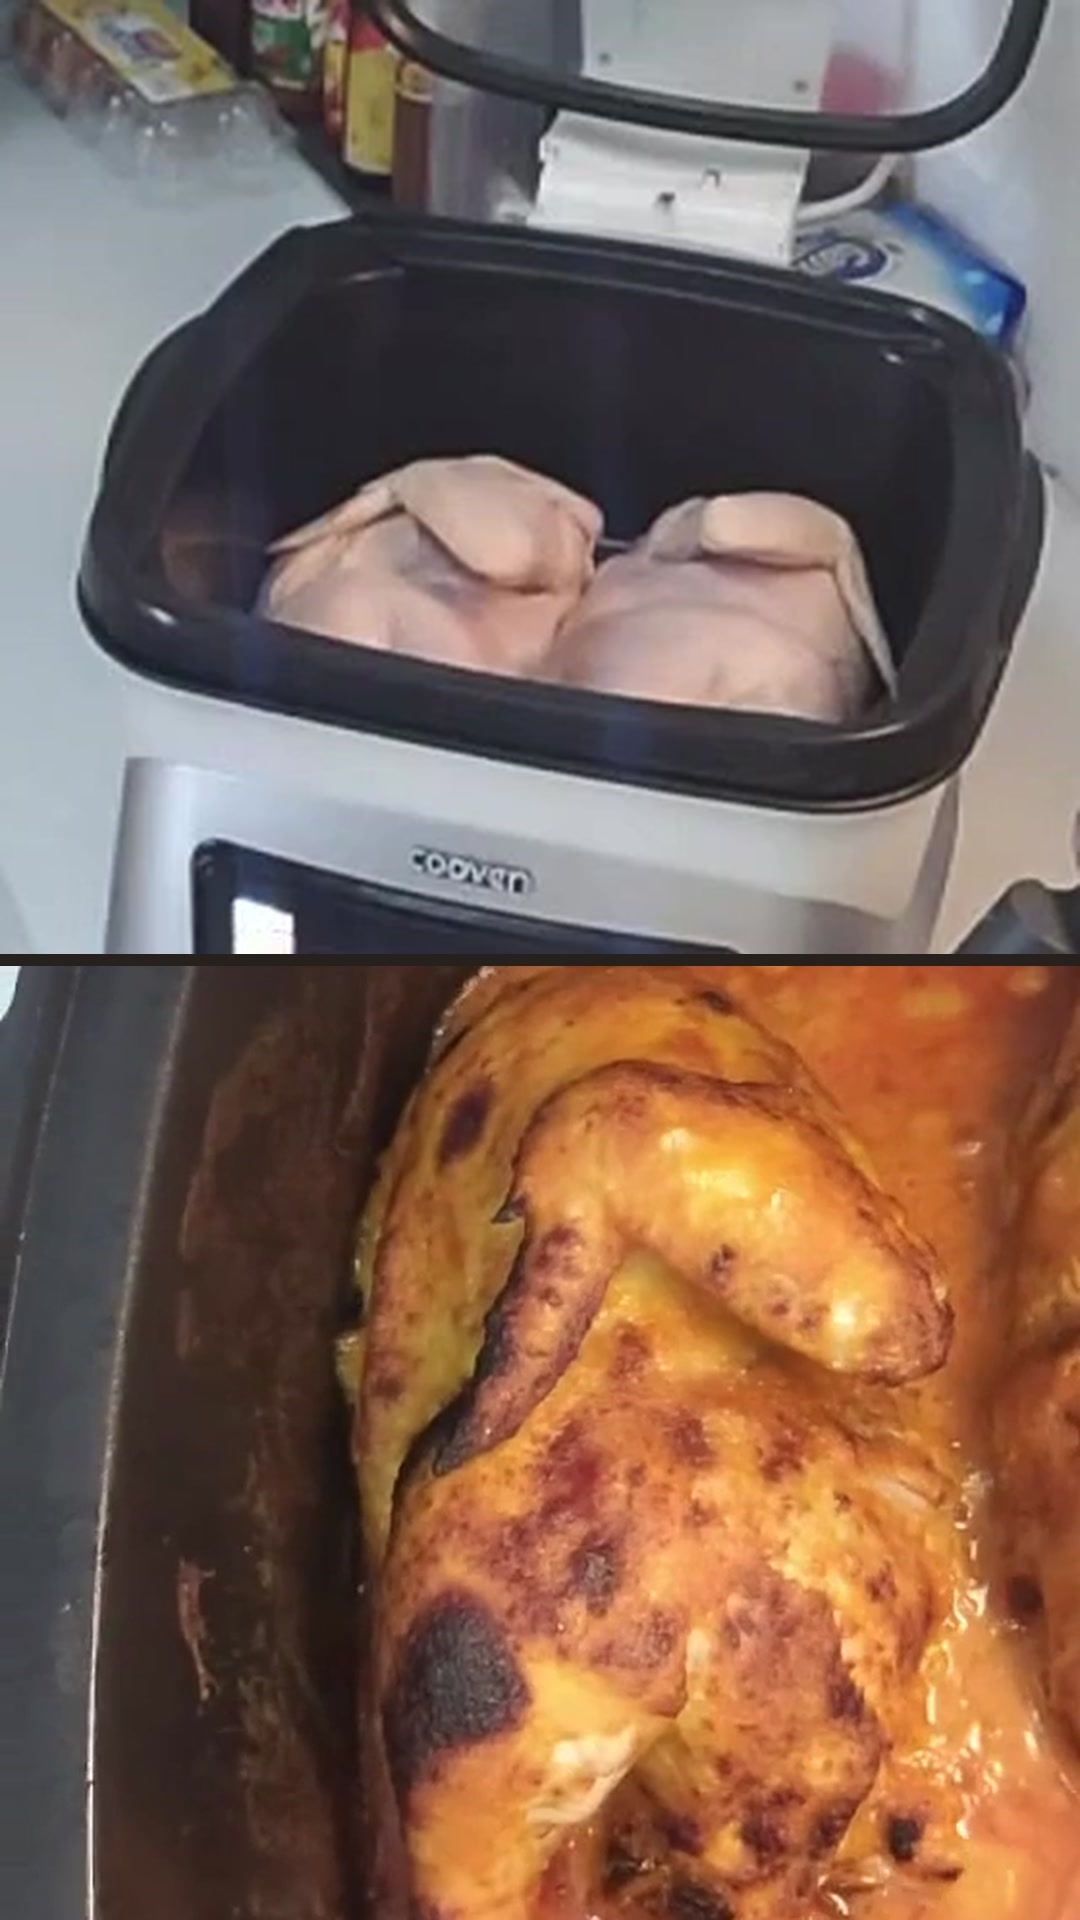
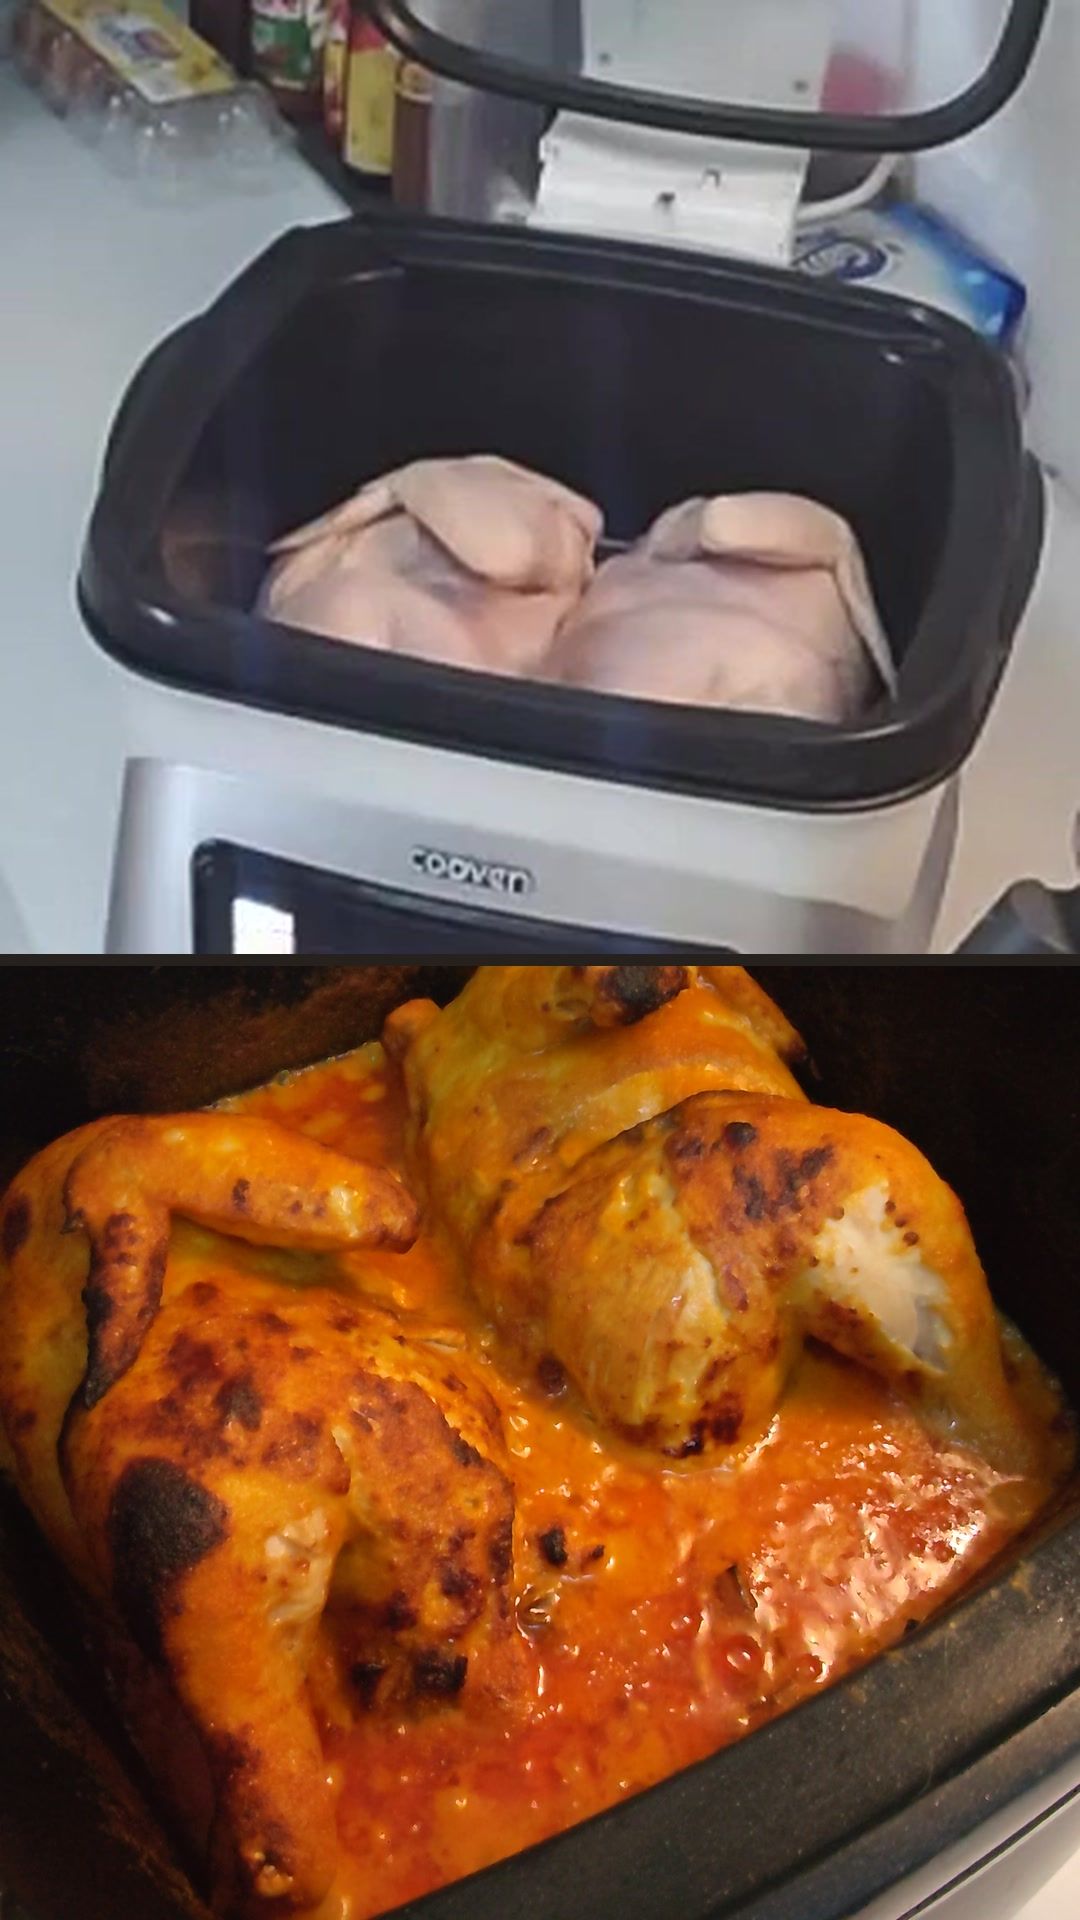
Ayam percik: use the new 4K clips (reveal hook, Smart Cook menu, braise, broil, smooth payoff tour, end card)
Claude-Session: https://claude.ai/code/session_01PJCRELPXxSytfk5cYA1xdA

diff --git a/video/src/episodes/ayam-percik.ts b/video/src/episodes/ayam-percik.ts
@@ -69,6 +69,44 @@ const tour = (extra: Partial<Shot> = {}): Shot => ({
   ...extra,
 });
 
+/**
+ * Extra 4K phone clips (cook's upload, 2160x3840, no live PiP, no sound used):
+ *   b171139: lid lifts 0-1 s, camera moves in 1-3.6 s, steady top-down of the finished, charred chicken 3.6-7.7 s
+ *            (b171139slow = 3.6-7.7 s frame-interpolated to half speed, 8.2 s long, for the smooth payoff tour)
+ *   b170347: Cooven panel, SMART COOK selected 0.25-1.75 s (digits on the right are zoomed out)
+ *   b170842: through the lid, chicken simmering in bubbling kuah (braise)
+ *   b173145: 0-2.1 s chicken covered in kuah; 2.2-4.5 s the screen shows temp/time (never used); 4.5 s+ broil glow
+ */
+const B_DONE = 'b171139.mp4';
+const B_SLOW = 'b171139slow.mp4';
+const REVEAL = {from: {s: 1.04, x: 0.5, y: 0.5}, to: {s: 1.12, x: 0.5, y: 0.55}};
+const MENU = {from: {s: 1.8, x: 0.35, y: 0.6}, to: {s: 1.9, x: 0.35, y: 0.6}}; // menu list only, digits (x > 0.8) out
+const GLASS = {from: {s: 1.12, x: 0.3, y: 0.2}, to: {s: 1.2, x: 0.3, y: 0.2}};
+const SAUCED = {from: {s: 1.35, x: 0.5, y: 0.25}, to: {s: 1.42, x: 0.5, y: 0.25}}; // screen (y > 0.82) out
+const BROIL_GLOW = {from: {s: 1.2, x: 0.3, y: 0}, to: {s: 1.28, x: 0.3, y: 0}}; // screen (y > 0.86) out
+const STEADY = {from: {s: 1.06, x: 0.5, y: 0.55}, to: {s: 1.1, x: 0.5, y: 0.55}};
+
+/** smooth close tour over the finished 4K chicken: left skin -> charred leg -> bubbling kuah -> right half -> back out */
+const TOUR4K = [
+  {s: 1.08, x: 0.5, y: 0.55},
+  {s: 1.9, x: 0.2, y: 0.45},
+  {s: 1.9, x: 0.1, y: 0.78},
+  {s: 2.1, x: 0.75, y: 0.85},
+  {s: 1.9, x: 0.9, y: 0.35},
+  {s: 1.08, x: 0.5, y: 0.55},
+];
+const tour4k = (extra: Partial<Shot> = {}): Shot => ({
+  src: B_SLOW,
+  from: 0.4,
+  to: 8.15,
+  rate: 0.8,
+  enter: 'zoom',
+  zoom: {from: TOUR4K[0], to: TOUR4K[TOUR4K.length - 1], path: TOUR4K},
+  sfx: [{src: 'riser-1s', at: 0.3, vol: 0.25}],
+  ...extra,
+});
+const END_4K = {src: B_SLOW, from: 3.0, to: 8.1, rate: 1.2, enter: 'cut' as const, zoom: STEADY};
+
 export const ayamPercik: Episode = {
   id: 'AyamPercik',
   series: BRAND,
@@ -80,27 +118,26 @@ export const ayamPercik: Episode = {
   asmrDuck: 1,
   look: 'cinematic',
   shots: [
-    // HOOK: finished, charred ayam percik
+    // HOOK: lid lifts on the finished, charred ayam percik (4K)
     {
-      src: L,
-      from: 3608,
-      to: 3613,
+      src: B_DONE,
+      from: 0.3,
+      to: 4.3,
       enter: 'cut',
-      audio: 0.3,
-      zoom: POT_DONE,
+      zoom: REVEAL,
       overlays: [
         {
           type: 'title',
           pos: 'bottom',
-          at: 0.1,
+          at: 0.6,
           lines: [{t: 'AYAM PERCIK'}, {t: 'TAK PAYAH ARANG!', hl: true, size: 74}, {t: 'Food Engine Cooven', marker: true, size: 60}],
         },
-        {type: 'sparkles', x: 520, y: 700, at: 1.0, count: 10, spread: 300},
+        {type: 'sparkles', x: 520, y: 700, at: 1.2, count: 10, spread: 300},
       ],
       sfx: [
         {src: 'sting', at: 0, vol: 0.5},
-        {src: 'impact', at: 0, vol: 0.45},
-        {src: 'shimmer', at: 1.0, vol: 0.4},
+        {src: 'impact', at: 0.6, vol: 0.45},
+        {src: 'shimmer', at: 1.2, vol: 0.4},
       ],
     },
     {
@@ -135,67 +172,78 @@ export const ayamPercik: Episode = {
       overlays: [
         {type: 'step', n: 3, text: 'Ratakan kuah'},
         {type: 'speed', label: '10x'},
-        {type: 'label', text: 'Smart Cook', x: 520, y: 470, rotate: -4, size: 66, at: 0.6},
       ],
     },
     {
-      src: L,
-      from: 912,
-      to: 930,
-      rate: 4.5,
+      src: 'b170347.mp4',
+      from: 0.2,
+      to: 1.85,
+      rate: 0.6,
       enter: 'zoom',
-      zoom: HANDS,
+      zoom: MENU,
       overlays: [
-        {type: 'step', n: 4, text: 'Tutup & biar masak'},
-        {type: 'speed', label: '4.5x'},
+        {type: 'step', n: 4, text: 'Tutup, pilih Smart Cook'},
+        {type: 'label', text: 'braise + broil', x: 520, y: 470, rotate: -4, size: 64, at: 0.5},
       ],
-      sfx: [{src: 'clock-fast', at: 0, vol: 0.2}],
+      sfx: [{src: 'pop-bubble', at: 0.4, vol: 0.35}],
+    },
+    {
+      src: 'b170842.mp4',
+      from: 34,
+      to: 42,
+      rate: 2,
+      enter: 'zoom',
+      zoom: GLASS,
+      overlays: [
+        {type: 'step', n: 5, text: 'Braise: reneh dengan kuah'},
+        {type: 'speed', label: '2x'},
+      ],
     },
     // half way: spoon kuah over the chicken
     {
       src: L,
       from: 2901,
       to: 2929,
-      rate: 5,
+      rate: 6,
       enter: 'zoom',
-      audio: 0.3,
       zoom: BRAISE,
       overlays: [
-        {type: 'step', n: 5, text: 'Siram kuah atas ayam'},
-        {type: 'speed', label: '5x'},
+        {type: 'step', n: 6, text: 'Siram kuah atas ayam'},
+        {type: 'speed', label: '6x'},
       ],
     },
     {
-      src: L,
-      from: 2936,
-      to: 2945,
-      rate: 2,
+      src: 'b173145.mp4',
+      from: 0,
+      to: 2.1,
       enter: 'zoom',
-      zoom: BROIL_ON,
-      overlays: [
-        {type: 'step', n: 6, text: 'Tukar tudung, broil'},
-        {type: 'label', text: 'auto broil', x: 520, y: 470, rotate: -4, size: 64, at: 1.2},
-      ],
-      sfx: [{src: 'whoosh-soft', at: 0.8, vol: 0.35}],
+      zoom: SAUCED,
+      overlays: [{type: 'step', n: 7, text: 'Tukar tudung, broil'}],
+      sfx: [{src: 'whoosh-soft', at: 1.8, vol: 0.35}],
     },
-    // PAYOFF: close camera tour over the cooked chicken, then the wide view with the title
-    tour({
+    {
+      src: 'b173145.mp4',
+      from: 4.5,
+      to: 9.0,
+      rate: 1.5,
+      enter: 'cut',
+      zoom: BROIL_GLOW,
       overlays: [
-        {type: 'title', pos: 'bottom', at: 9.0, lines: [{t: 'AYAM PERCIK'}, {t: 'SIAP!', hl: true, size: 120}]},
-        {type: 'sparkles', x: 400, y: 700, at: 9.2, count: 12, spread: 320},
+        {type: 'step', n: 7, text: 'Tukar tudung, broil', at: -2},
+        {type: 'label', text: 'broil', x: 520, y: 470, rotate: -4, size: 72, at: 0.3},
       ],
-      sfx: [{src: 'riser-1s', at: 0.3, vol: 0.25}, {src: 'boom', at: 9.0, vol: 0.45}, {src: 'ding-sparkle', at: 9.2, vol: 0.4}],
+    },
+    // PAYOFF: smooth slow-motion camera tour over the finished chicken (4K), ends wide with the title
+    tour4k({
+      overlays: [
+        {type: 'title', pos: 'bottom', at: 7.4, lines: [{t: 'AYAM PERCIK'}, {t: 'SIAP!', hl: true, size: 120}]},
+        {type: 'sparkles', x: 520, y: 700, at: 7.6, count: 12, spread: 320},
+      ],
+      sfx: [{src: 'riser-1s', at: 0.3, vol: 0.25}, {src: 'boom', at: 7.4, vol: 0.45}, {src: 'ding-sparkle', at: 7.6, vol: 0.4}],
     }),
     {
-      src: L,
-      from: 3612,
-      to: 3616.5,
-      rate: 0.9,
-      enter: 'cut',
-      zoom: POT_DONE,
-      overlays: [
-        SMART_CARD,
-      ],
+      ...END_4K,
+      overlays: [SMART_CARD],
       sfx: [{src: 'whoosh-med', at: 0, vol: 0.4}, {src: 'sting-warm', at: 0.2, vol: 0.45}],
     },
   ],
@@ -243,41 +291,45 @@ export const ayamBeforeAfter: Episode = {
       ],
     },
     {
-      src: L,
-      from: 2901,
-      to: 2916,
-      rate: 3,
+      src: 'b170842.mp4',
+      from: 34,
+      to: 42,
+      rate: 2.5,
       enter: 'zoom',
-      zoom: BRAISE,
+      zoom: GLASS,
       overlays: [
-        {type: 'speed', label: '3x'},
+        {type: 'speed', label: '2.5x'},
         {type: 'label', text: 'braise', x: 520, y: 470, rotate: -4, size: 72, at: 0.2},
       ],
     },
     {
-      src: L,
-      from: 2938,
-      to: 2945,
+      src: 'b173145.mp4',
+      from: 4.5,
+      to: 9.0,
       rate: 1.5,
       enter: 'zoom',
-      zoom: BROIL_ON,
+      zoom: BROIL_GLOW,
       overlays: [{type: 'label', text: 'broil', x: 520, y: 470, rotate: -4, size: 72, at: 0.2}],
-      sfx: [{src: 'riser-1s', at: 3.4, vol: 0.35}],
+      sfx: [{src: 'riser-1s', at: 2.0, vol: 0.35}],
     },
-    tour({
-        overlays: [
-          {type: 'title', pos: 'bottom', at: 0.1, lines: [{t: 'JADI NI!', hl: true, size: 120}, {t: 'tak payah arang', marker: true, size: 64}]},
-          {type: 'sparkles', x: 520, y: 700, at: 0.3, count: 12, spread: 320},
-        ],
-        sfx: [{src: 'boom', at: 0.1, vol: 0.45}, {src: 'ding-sparkle', at: 0.3, vol: 0.4}],
-    }),
+    // the lid lifts: JADI NI!
     {
-      ...END_SHOT,
-      rate: 0.75,
-      to: 3615,
+      src: B_DONE,
+      from: 0.3,
+      to: 3.6,
+      enter: 'cut',
+      zoom: REVEAL,
       overlays: [
-        SMART_CARD,
+        {type: 'title', pos: 'bottom', at: 0.5, lines: [{t: 'JADI NI!', hl: true, size: 120}, {t: 'tak payah arang', marker: true, size: 64}]},
+        {type: 'sparkles', x: 520, y: 700, at: 0.7, count: 12, spread: 320},
       ],
+      sfx: [{src: 'boom', at: 0.5, vol: 0.45}, {src: 'ding-sparkle', at: 0.7, vol: 0.4}],
+    },
+    tour4k({enter: 'cut', sfx: []}),
+    {
+      ...END_4K,
+      rate: 1.3,
+      overlays: [SMART_CARD],
       sfx: [{src: 'whoosh-med', at: 0, vol: 0.4}],
     },
   ],

diff --git a/video/src/Root.tsx b/video/src/Root.tsx
@@ -27,7 +27,7 @@ const ROTI_THUMBS = [
 /** ayam percik: cooler grade (cook found the kitchen too orange); zoom keeps the live PiP windows (x > 0.785) out */
 const AYAM_FILTER = 'contrast(1.14) saturate(1.0) brightness(1.03) hue-rotate(-4deg)';
 const AYAM_THUMBS = [
-  {id: 'Thumb-AyamPercik', props: {bg: 'thumbs/ayam-siap.jpg', kicker: 'Smart Cook', title: 'AYAM\nPERCIK', sticker: 'TANPA ARANG!', chips: ['Braise + Broil'], zoom: {s: 1.3, x: 0, y: 0.62}, titleTop: 330, chipsTop: 1330, filter: AYAM_FILTER}},
+  {id: 'Thumb-AyamPercik', props: {bg: 'thumbs/ayam-siap.jpg', kicker: 'Smart Cook', title: 'AYAM\nPERCIK', sticker: 'TANPA ARANG!', chips: ['Braise + Broil'], zoom: {s: 1.06, x: 0.5, y: 0.6}, titleTop: 330, chipsTop: 1400, filter: AYAM_FILTER}},
   {id: 'Thumb-AyamPercik-BA', props: {bg: 'thumbs/ayam-ba.jpg', kicker: 'Ayam Percik', title: 'DARI NI…\nJADI NI!', sticker: '1 PERIUK JE!', zoom: {s: 1, x: 0.5, y: 0.5}, titleTop: 700, filter: AYAM_FILTER}},
 ];
 
